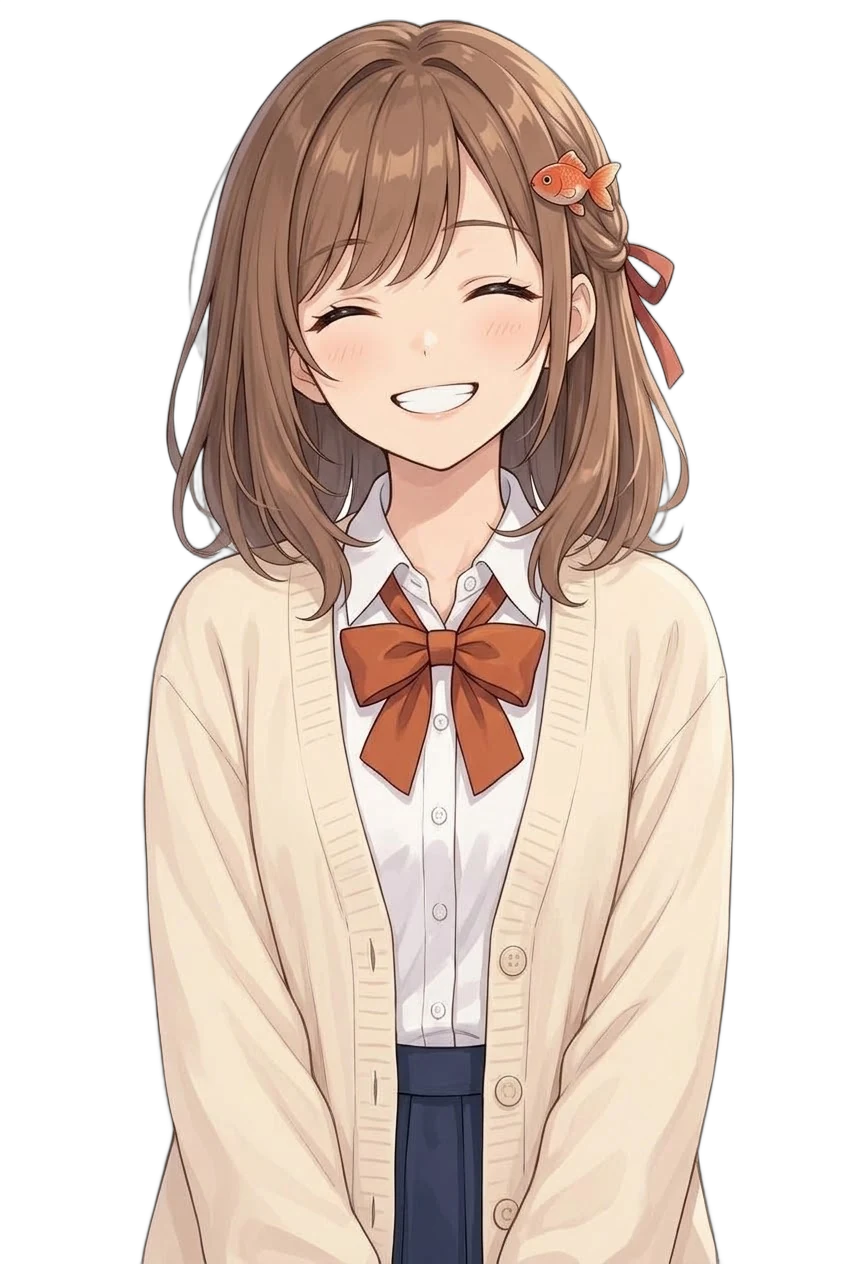
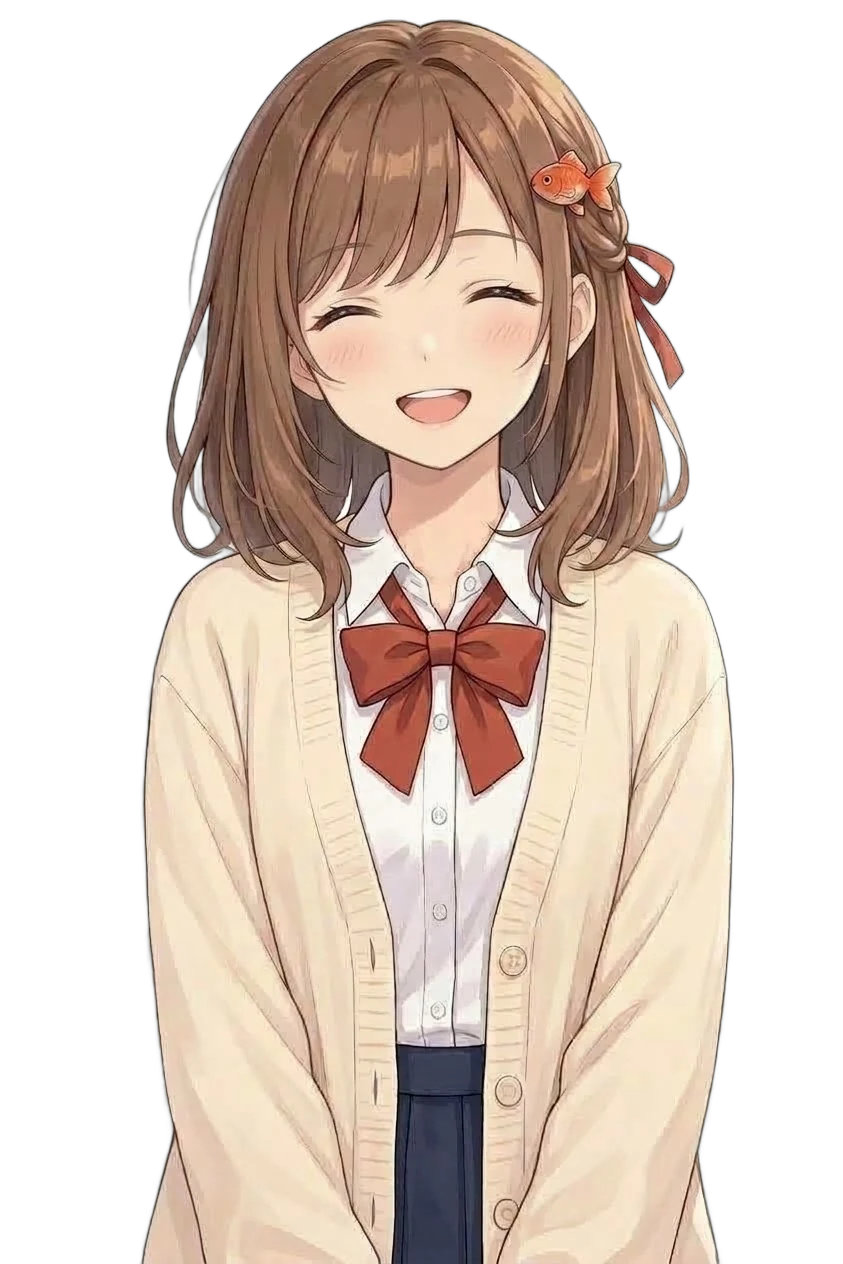
子どもの3人の表情違いと、あかりの笑顔・心配の作り直し（リボンを赤に）を入れる
- 子どものハルトの笑顔、あかりの心配、りくの笑顔・真剣（Gemini。M1 の台本で使う表情）
- あかりの笑顔・心配を、リボンが赤いデジャヴの絵を見本に作り直して差し替え
- 子どもの表情は、絵のある表情を一覧で渡し、ないものは基本の1枚で代わりに出す

Claude-Session: https://claude.ai/code/session_011JMPsXhGMpZ4Jih716feuG

diff --git a/src/data/assets.ts b/src/data/assets.ts
@@ -230,6 +230,40 @@ const YOUNG_HEAD =
   'Background: plain pure white, no shadow, no gradient. ' +
   'Draw the same character as the attached high school portrait, but as a 7-year-old child: round soft cheeks, bigger eyes, small shoulders, childlike proportions. Keep the same face features, hair color and eye color so that they are clearly the same person ten years earlier. ';
 
+/** 子どものころの3人の表情違いの指示文の頭（Gemini。基本の1枚を見本にして顔だけ変えた。docs/ART.md の 5-2 の 6） */
+const YOUNG_FACE_HEAD: Record<'hero' | 'akari' | 'riku', string> = {
+  hero: 'Use this image as the base. Keep everything exactly the same: framing, pose, arms down with hands outside the frame, hair with the single sand-gold strand, amber eyes, white T-shirt, open navy hoodie with dusk-orange lining, childlike proportions, and art style. Plain pure white background. Change only the facial expression. No props, no sweat drops, no text, no effects.',
+  akari:
+    'Use this image as the base. Keep everything exactly the same: framing, pose, arms down with hands outside the frame, short chestnut bob, the small red goldfish hair clip, the small red ribbon in the hair, white goldfish yukata with red obi, childlike proportions, and art style. Plain pure white background. Change only the facial expression. No props, no sweat drops, no tears, no text, no effects.',
+  riku: 'Use this image as the base. Keep everything exactly the same: framing, pose, arms down with hands outside the frame, messy dark-brown hair, the small bandage on his cheek, navy jinbei with white pattern, childlike proportions, and art style. Plain pure white background. Change only the facial expression. No props, no sweat drops, no text, no effects.',
+};
+
+/** 子どものころの3人の表情違い（Gemini で、基本の1枚を見本にして顔だけ変えた） */
+function youngFace(who: 'hero' | 'akari' | 'riku', name: string, face: string, title: string, expression: string, base: string): AssetEntry {
+  return {
+    id: `portrait.young_${who}.${face}`,
+    kind: 'image',
+    title: `子どもの${name}の立ち絵（${title}）`,
+    file: `assets/portraits/young_${who}_${face}.webp`,
+    status: 'placeholder',
+    source: {
+      type: 'ai',
+      service: 'Google Gemini（Gemini アプリ）',
+      plan: '無料',
+      prompt: `${YOUNG_FACE_HEAD[who]}\nExpression: ${expression}`,
+      settings: `見本の絵：子どもの${name}の${base}の立ち絵（ChatGPT で作った基本の1枚。指示文はその台帳）。白い背景は scripts/cutout.py（rembg の isnet-anime）で抜いた`,
+    },
+    author: 'RESTOPIA 開発（Google Gemini と ChatGPT で作成）',
+    license: 'Google 利用規約（生成した内容の所有権を主張しない）',
+    commercialUse: true,
+    creditRequired: false,
+    modifyAllowed: true,
+    acquiredAt: '2026-10-09',
+    termsCopy: 'docs/licenses/ai-gemini.md',
+    notes: 'docs/ART.md の 5-2 の 6。ChatGPT の規約の控えは docs/licenses/ai-openai.md',
+  };
+}
+
 /** 子どものころの3人の立ち絵（段階31a。ChatGPT で、高校生の立ち絵を見本にして作った基本の1枚。表情違いは Gemini で作る予定） */
 function youngPortrait(who: 'hero' | 'akari' | 'riku', name: string, face: string, title: string, character: string, reference: string): AssetEntry {
   return {
@@ -358,7 +392,7 @@ export const ASSETS: AssetEntry[] = [
     termsCopy: 'docs/licenses/eruda.txt',
     notes: '?debug=1 の時だけ読み込むスマホ用のログ。配布物にはファイルとして入る',
   },
-  akariPortrait('smile', '笑顔', 'bright smile', 'ChatGPT の全身の絵を Gemini で白い背景に描き直した絵'),
+  akariPortrait('smile', '笑顔', 'a bright, warm smile with the mouth slightly open, eyes soft and happy', 'あかりのデジャヴの立ち絵（リボンが赤い版）。2026-10-09 に、リボンの色が違った絵を作り直した', AKARI_ADDED_HEAD),
   soundEffectLab('se.tap', 'ボタンを押す', 'tap.mp3', 'button', 'decision3.mp3（決定ボタンを押す3）'),
   soundEffectLab('se.slash', '斬る', 'slash.mp3', 'battle', 'sword-slash2.mp3（剣で斬る2）'),
   soundEffectLab('se.hit', '打撃', 'hit.mp3', 'battle', 'blow2.mp3（打撃2）'),
@@ -528,8 +562,25 @@ export const ASSETS: AssetEntry[] = [
     'Character: young Riku, 7 years old. A mischievous little leader, a proud confident grin showing his teeth. Short dark-brown hair, a little spiky and messy (not yet styled). Bright lively brown eyes, a small bandage on his cheek. A navy blue jinbei (Japanese summer festival outfit) with a simple white pattern.',
     'りくの笑顔の立ち絵',
   ),
+  youngFace('hero', 'ハルト', 'smile', '笑顔', 'a small, shy but happy smile with the mouth closed, eyes soft, a child who is just starting to open up', '通常'),
+  youngFace('akari', 'あかり', 'worried', '心配', 'gently worried, eyebrows raised in a troubled way, mouth slightly open, eyes looking at someone with concern', '笑顔'),
+  youngFace('riku', 'りく', 'smile', '笑顔', 'a big, bright, carefree open-mouthed smile, eyes happily narrowed', '得意げ'),
+  youngFace(
+    'riku',
+    'りく',
+    'serious',
+    '真剣',
+    'serious and focused, mouth firmly closed, brows drawn together, eyes sharp and determined, like a little leader making a decision',
+    '得意げ',
+  ),
   akariPortrait('laugh', '大笑い', 'laughing happily with open mouth, eyes closed', 'Gemini で作った笑顔の立ち絵'),
-  akariPortrait('worried', '心配', 'gentle worried look', 'ChatGPT の全身の絵を Gemini で白い背景に描き直した絵'),
+  akariPortrait(
+    'worried',
+    '心配',
+    'gently worried, eyebrows raised in a troubled way, mouth slightly open, eyes looking at someone with concern',
+    'あかりのデジャヴの立ち絵（リボンが赤い版）。2026-10-09 に、リボンの色が違った絵を作り直した',
+    AKARI_ADDED_HEAD,
+  ),
   akariPortrait(
     'pout',
     'むっ',

diff --git a/src/data/dialogue.ts b/src/data/dialogue.ts
@@ -75,14 +75,14 @@ const names = (...faces: string[]) => Object.fromEntries(faces.map((f) => [f, f]
 /** 子どものころの3人の立ち絵の高さ。高校生（450）より小さく出して、背の低さを表す（docs/ART.md の 5-2 の 6） */
 const YOUNG_HEIGHT = 360;
 /**
- * 子どものころの3人の表情。絵は基本の1枚だけなので（表情違いは段階31a で Gemini で作る）、ほかの表情はその1枚で代わりに出す。
- * 絵が届いたら、その表情の id を台帳の id に替え、fallback から外す
+ * 子どものころの3人の表情。drawn は絵のある表情 → 台帳の id、base は最初の表情（絵のある表情の1つ）。
+ * 絵のない表情は、絵が届くまで base の絵で代わりに出す。絵が届いたら drawn に足す
  */
-function young(faces: string[], id: string, base: string): Pick<CastMember, 'faces' | 'firstFace' | 'fallback'> {
+function young(faces: string[], drawn: Record<string, string>, base: string): Pick<CastMember, 'faces' | 'firstFace' | 'fallback'> {
   return {
-    faces: Object.fromEntries(faces.map((f) => [f, f === base ? id : f])),
+    faces: Object.fromEntries(faces.map((f) => [f, drawn[f] ?? f])),
     firstFace: base,
-    fallback: Object.fromEntries(faces.filter((f) => f !== base).map((f) => [f, base])),
+    fallback: Object.fromEntries(faces.filter((f) => !(f in drawn)).map((f) => [f, base])),
   };
 }
 
@@ -90,17 +90,17 @@ export const CAST: Record<string, CastMember> = {
   ハルト: { portrait: 'portrait.hero', faces: HERO_FACES, firstFace: '通常', color: 0x4a7fb5, height: 450, voice: { pitch: 300, wave: 'sawtooth' } },
   あかり: { portrait: 'portrait.akari', faces: AKARI_FACES, firstFace: '笑顔', color: 0xd06b8a, height: 450, voice: { pitch: 600, wave: 'triangle' } },
   りく: { portrait: 'portrait.riku', faces: RIKU_FACES, height: 450, firstFace: '通常', color: 0x6a9a4a, voice: { pitch: 370, wave: 'square' } },
-  子ハルト: { portrait: 'portrait.young_hero', ...young(['通常', '笑顔', '驚き', '照れ', '困り'], 'normal', '通常'), color: 0x4a7fb5, height: YOUNG_HEIGHT, voice: { pitch: 440, wave: 'sawtooth' } },
+  子ハルト: { portrait: 'portrait.young_hero', ...young(['通常', '笑顔', '驚き', '照れ', '困り'], { 通常: 'normal', 笑顔: 'smile' }, '通常'), color: 0x4a7fb5, height: YOUNG_HEIGHT, voice: { pitch: 440, wave: 'sawtooth' } },
   子あかり: {
     portrait: 'portrait.young_akari',
-    ...young(['笑顔', 'むっ', '心配', 'デジャヴ', '驚き', '大笑い', '照れ', '悲しい'], 'smile', '笑顔'),
+    ...young(['笑顔', 'むっ', '心配', 'デジャヴ', '驚き', '大笑い', '照れ', '悲しい'], { 笑顔: 'smile', 心配: 'worried' }, '笑顔'),
     color: 0xd06b8a,
     height: YOUNG_HEIGHT,
     voice: { pitch: 760, wave: 'triangle' },
   },
   子りく: {
     portrait: 'portrait.young_riku',
-    ...young(['通常', '得意げ', '笑顔', 'あせり', '驚き', 'にやり', '照れ', '真剣'], 'proud', '得意げ'),
+    ...young(['通常', '得意げ', '笑顔', 'あせり', '驚き', 'にやり', '照れ', '真剣'], { 得意げ: 'proud', 笑顔: 'smile', 真剣: 'serious' }, '得意げ'),
     color: 0x6a9a4a,
     height: YOUNG_HEIGHT,
     voice: { pitch: 500, wave: 'square' },

diff --git a/docs/ART.md b/docs/ART.md
@@ -130,7 +130,7 @@ ChatGPT の無料枠で、毎日少しずつ作る。上から順に作る（ゲ
 | 5 | 背景：レストピアの蔵書の棚 | ChatGPT | なし | 済（2026-10-09。`bg.library`。2枚作り、下の3分の1（床）がすっきりした方を使った） |
 | 6 | 子どものころの3人の基本の1枚（7歳。1人ずつ） | ChatGPT | 高校生の3人の絵 | 済（2026-10-09。`portrait.young_hero.normal`・`young_akari.smile`・`young_riku.proud`。立ち絵の高さは 360（高校生は 450）。ほかの表情は、表情違いができるまでこの1枚で代わりに出す） |
 | 7 | 地図：1-1「金魚の名前」の縁日（見下ろし。段階18b の仮の絵を作り直す） | ChatGPT | 段階18b の仮の地図の絵（配置の見本。あれば） | 済（2026-10-08。`map.festival` を差し替え、歩ける場所の文字の地図も書き直した。少し夜寄りの色なので、ゲームの側で明るさを寄せるか段階25で決める） |
-| ― | 表情違い（あかり・ハルトの足した5つずつ、りくなど） | Gemini | 基本の1枚 | りくの7つ、ハルトの8つ、あかりの足した5つは済（2026-10-08）。あかりの笑顔・心配のリボンの色の直しと、子どもの3人の表情違い（台本で使う表情は `src/data/dialogue.ts` の `CAST`）は未 |
+| ― | 表情違い（あかり・ハルトの足した5つずつ、りくなど） | Gemini | 基本の1枚 | りくの7つ、ハルトの8つ、あかりの足した5つは済（2026-10-08）。あかりの笑顔・心配のリボンの色の直し（デジャヴの絵を見本に作り直した）と、子どもの3人の M1 で使う表情違い（ハルトの笑顔、あかりの心配、りくの笑顔・真剣）は済（2026-10-09）。子どもの3人のほかの表情（台本の `CAST` にある物）は、後の章で使う時に作る |
 
 **立ち絵の共通の決まり**（全員同じ構図にする。段階18a で、構図が違うと背の高さがちぐはぐに見えたため）
 

diff --git a/docs/HANDOFF.md b/docs/HANDOFF.md
@@ -21,7 +21,7 @@
 
 - 段階31a（絵）と31b（本番の BGM）は、開発者の絵と曲が届いてから入れる（2026-10-09 時点で未着。届いたら台帳 `src/data/assets.ts` に書き、BGM はつなぎ目を調べて `BGM_LOOPS` に書く）。段階32a（UI の見た目）は作った。タイトルは「無機質な感じでいい」ので今のまま（題字のロゴは作らない。開発者と決めた）。その後に段階32b（磨きと試遊の準備）。中身は `docs/milestones/M1.md`
 - 効果音でまだないもの：コマを手に入れる、返す（砂が昇る）（今は、ある音で代わりに鳴らすか、鳴らしていない）
-- 絵の残り：時計屋の奥の部屋、レストピアの蔵書の棚、子どものころの3人の基本の1枚は入れた（2026-10-09）。残りは Gemini で、子どもの3人の表情違いと、あかりの笑顔・心配の作り直し（リボンの色）。指示文は `docs/ART.md` の 5-2
+- 絵の残り：時計屋の奥の部屋、レストピアの蔵書の棚、子どものころの3人の基本の1枚は入れた（2026-10-09）。同じ日に、Gemini で子どもの3人の M1 で使う表情違いと、あかりの笑顔・心配の作り直し（リボンの色）も入れた。M1 の会話の絵で残っているのは、まだ絵のない人（ゆうま、写しの人々）と1枚絵。指示文は `docs/ART.md` の 5-2
 
 ## コードの地図（細かい対応は各設計書の冒頭）
 
